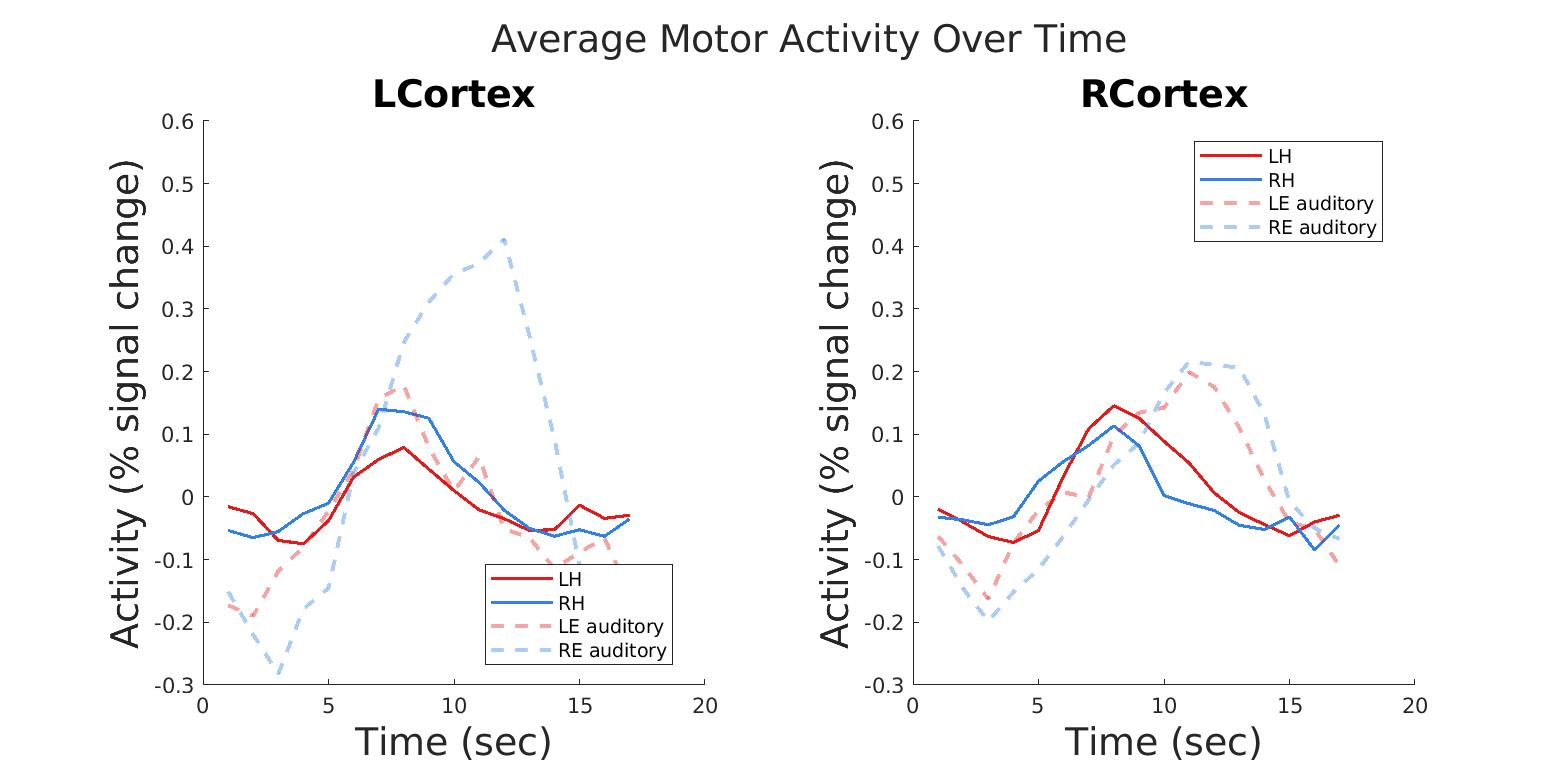
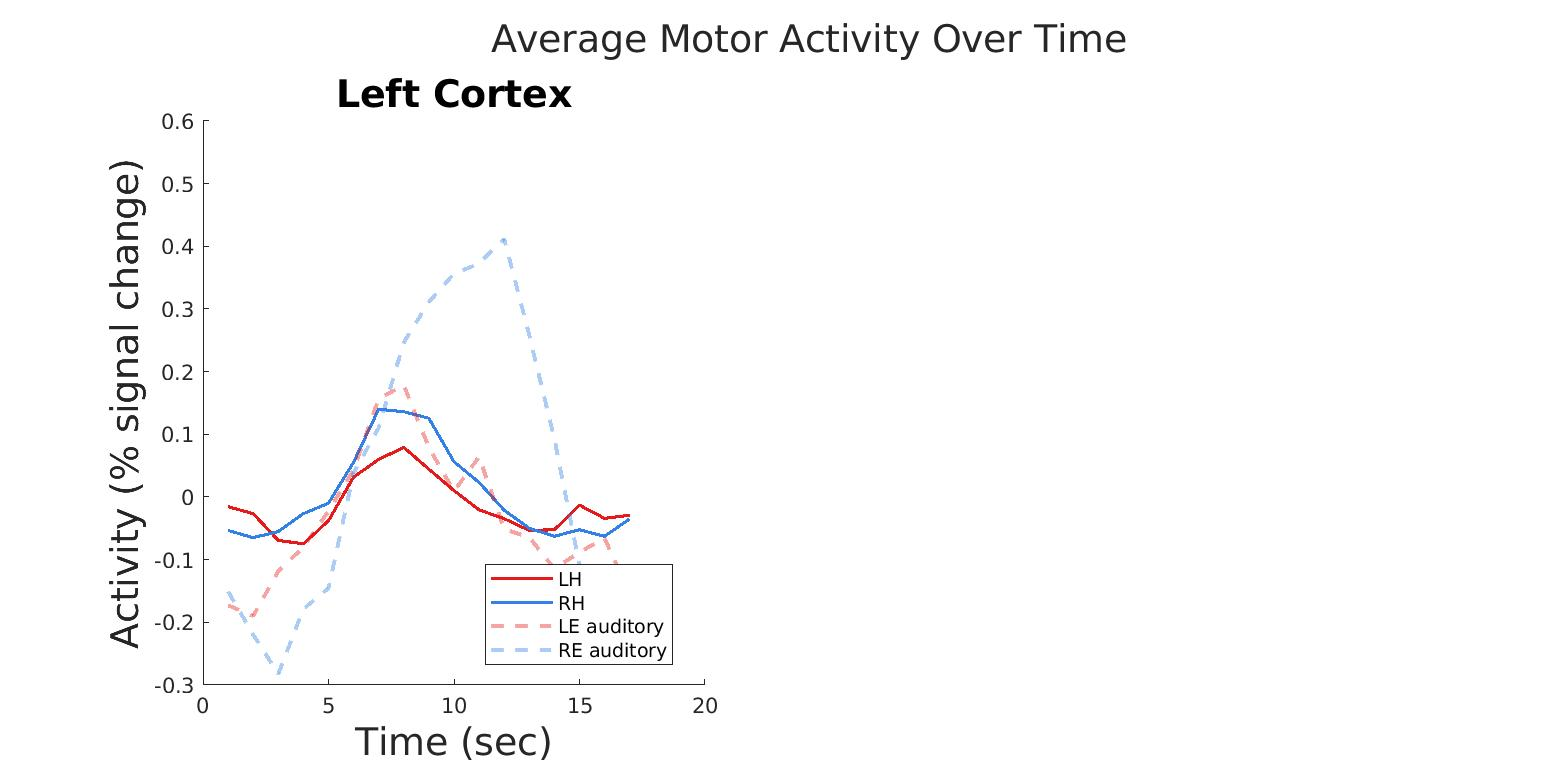
update figures dir (auto)

diff --git a/plotTimeCourseMotorSubplots.m b/plotTimeCourseMotorSubplots.m
@@ -38,7 +38,12 @@ function plotTimeCourseMotorOnePlotSubplots()
         plot(RE_data, "--", 'LineWidth', 1.9, 'Color', [0.2 0.5 0.9 0.4]);
 
         % Adding title and labels
-        titleStr = sprintf("%s", cortex);
+        if cortex =="RCortex"
+            cortex_str = "Right Cortex"
+        else 
+            cortex_str = "Left Cortex"
+            
+        titleStr = sprintf("%s",cortex_str);
         title(titleStr, 'FontSize', fontsize);
         xlabel('Time (sec)', 'FontSize', fontsize);
         ylabel('Activity (% signal change)', 'FontSize', fontsize);
